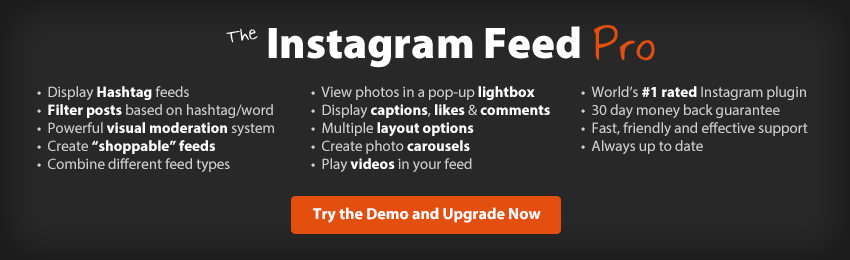
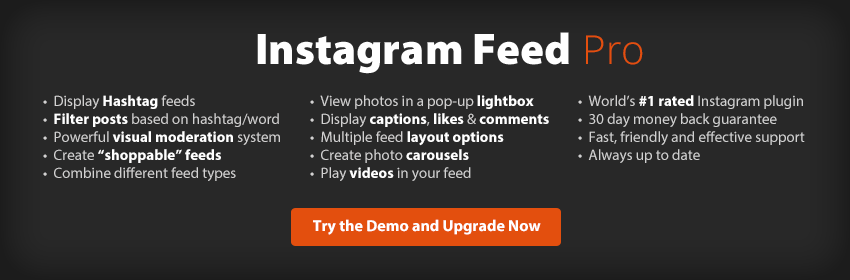
Only show admin footer social buttons on click

diff --git a/js/sb-instagram-admin.js b/js/sb-instagram-admin.js
@@ -852,4 +852,14 @@ jQuery(document).ready(function($) {
         });
     },1500);
 
+    //Load the admin share widgets
+    jQuery('#sbi_admin_show_share_links').on('click', function(){
+        jQuery(this).fadeOut();
+        if( jQuery('#sbi_admin_share_links iframe').length == 0 ) jQuery('#sbi_admin_share_links').html('<a href="https://twitter.com/share" class="twitter-share-button" data-url="https://wordpress.org/plugins/instagram-feed/" data-text="Display beautifully clean, customizable, and responsive Instagram feeds from multiple accounts" data-via="smashballoon" data-dnt="true">Tweet</a> <script>!function(d,s,id){var js,fjs=d.getElementsByTagName(s)[0],p=/^http:/.test(d.location)?"http":"https";if(!d.getElementById(id)){js=d.createElement(s);js.id=id;js.src=p+"://platform.twitter.com/widgets.js";fjs.parentNode.insertBefore(js,fjs);}}(document, "script", "twitter-wjs");</script> <style type="text/css"> #twitter-widget-0{float: left; width: 82px !important;}.IN-widget{margin-right: 20px;}</style> <div id="fb-root" style="display: none;"></div><script>(function(d, s, id){var js, fjs=d.getElementsByTagName(s)[0]; if (d.getElementById(id)) return; js=d.createElement(s); js.id=id; js.src="//connect.facebook.net/en_GB/sdk.js#xfbml=1&version=v2.0"; fjs.parentNode.insertBefore(js, fjs);}(document, "script", "facebook-jssdk"));</script> <div class="fb-like" data-href="https://wordpress.org/plugins/instagram-feed/" data-layout="button_count" data-action="like" data-show-faces="false" data-share="true" style="display: block; float: left; margin-right: 5px;"></div><script src="//platform.linkedin.com/in.js" type="text/javascript"> lang: en_US </script> <script type="IN/Share" data-url="https://wordpress.org/plugins/instagram-feed/"></script></div>');
+
+        setTimeout(function(){
+            jQuery('#sbi_admin_share_links').addClass('sbi_show');
+        }, 500);
+    });
+
 });

diff --git a/css/sb-instagram-admin.css b/css/sb-instagram-admin.css
@@ -1368,5 +1368,25 @@
 	color: #fff;
 }
 .sbi_review_notice .sbi_other_notice{
-	font-size: 13px; font-style: italic; margin-top: 5px !important;
+	font-size: 13px;
+	font-style: italic;
+	margin-top: 5px !important;
+}
+
+/* Admin footer share icons */
+#sbi_admin #sbi_admin_share_links{
+	opacity: 0;
+	display: inline-block;
+    padding: 5px;
+    border: 1px solid #ccc;
+    background: rgba(255,255,255,0.5);
+    border-radius: 3px;
+    transition: opacity 0.5s;
+}
+#sbi_admin #sbi_admin_share_links.sbi_show{
+	transition: opacity 0.5s;
+	opacity: 1;
+}
+#sbi_admin #twitter-widget-0 {
+    width: 65px !important;
 }

diff --git a/inc/admin/main.php b/inc/admin/main.php
@@ -2376,7 +2376,7 @@ echo 'test not successful';
 		</div>
 
 		<a href="https://smashballoon.com/instagram-feed/demo/?utm_source=plugin-free&utm_campaign=sbi" target="_blank" class="sbi-pro-notice">
-			<img src="<?php echo SBI_PLUGIN_URL . 'img/instagram-pro-promo.png'; ?>" alt="<?php esc_attr_e( 'Instagram Feed Pro', 'instagram-feed' ); ?>">
+			<img src="<?php echo SBI_PLUGIN_URL . 'img/instagram-pro-promo.png?2019'; ?>" alt="<?php esc_attr_e( 'Instagram Feed Pro', 'instagram-feed' ); ?>">
 		</a>
 
 		<p class="sbi_plugins_promo dashicons-before dashicons-admin-plugins"> <?php _e('Check out our other free plugins: <a href="https://wordpress.org/plugins/custom-facebook-feed/" target="_blank">Facebook</a> and <a href="https://wordpress.org/plugins/custom-twitter-feeds/" target="_blank">Twitter</a>.', 'instagram-feed' ); ?></p>
@@ -2384,34 +2384,7 @@ echo 'test not successful';
 		<div class="sbi_share_plugin">
 			<h3><?php _e('Like the plugin? Help spread the word!', 'instagram-feed'); ?></h3>
 
-			<!-- TWITTER -->
-			<a href="https://twitter.com/share" class="twitter-share-button" data-url="https://wordpress.org/plugins/instagram-feed/" data-text="Display beautifully clean, customizable, and responsive feeds from multiple Instagram accounts" data-via="smashballoon" data-dnt="true">Tweet</a>
-			<script>!function(d,s,id){var js,fjs=d.getElementsByTagName(s)[0],p=/^http:/.test(d.location)?'http':'https';if(!d.getElementById(id)){js=d.createElement(s);js.id=id;js.src=p+'://platform.twitter.com/widgets.js';fjs.parentNode.insertBefore(js,fjs);}}(document, 'script', 'twitter-wjs');</script>
-			<style type="text/css">
-				#twitter-widget-0{ float: left; width: 100px !important; }
-				.IN-widget{ margin-right: 20px; }
-			</style>
-
-			<!-- FACEBOOK -->
-			<div id="fb-root" style="display: none;"></div>
-			<script>(function(d, s, id) {
-                    var js, fjs = d.getElementsByTagName(s)[0];
-                    if (d.getElementById(id)) return;
-                    js = d.createElement(s); js.id = id;
-                    js.src = "//connect.facebook.net/en_GB/sdk.js#xfbml=1&appId=&version=v2.0";
-                    fjs.parentNode.insertBefore(js, fjs);
-                }(document, 'script', 'facebook-jssdk'));</script>
-			<div class="fb-like" data-href="https://wordpress.org/plugins/instagram-feed/" data-layout="button_count" data-action="like" data-show-faces="false" data-share="true" style="display: block; float: left; margin-right: 20px;"></div>
-
-			<!-- LINKEDIN -->
-			<script src="//platform.linkedin.com/in.js" type="text/javascript">
-                lang: en_US
-			</script>
-			<script type="IN/Share" data-url="https://wordpress.org/plugins/instagram-feed/"></script>
-
-			<!-- GOOGLE + -->
-			<script src="https://apis.google.com/js/platform.js" async defer></script>
-			<div class="g-plusone" data-size="medium" data-href="https://wordpress.org/plugins/instagram-feed/"></div>
+			<button id="sbi_admin_show_share_links" class="button secondary" style="margin-bottom: 1px;"><i class="fa fa-share-alt" aria-hidden="true"></i>&nbsp;&nbsp;Share the plugin</button> <div id="sbi_admin_share_links"></div>
 		</div>
 
 	</div> <!-- end #sbi_admin -->
